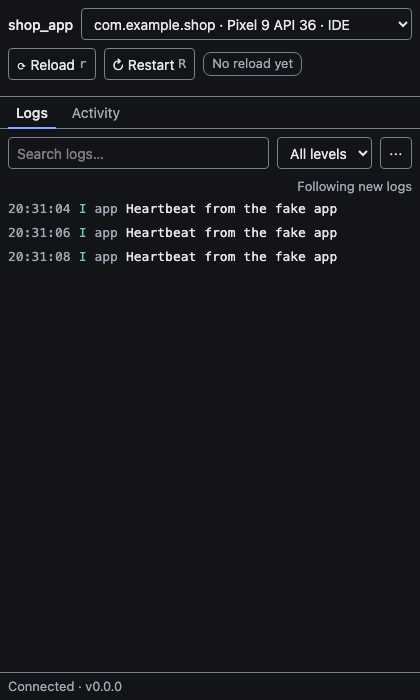
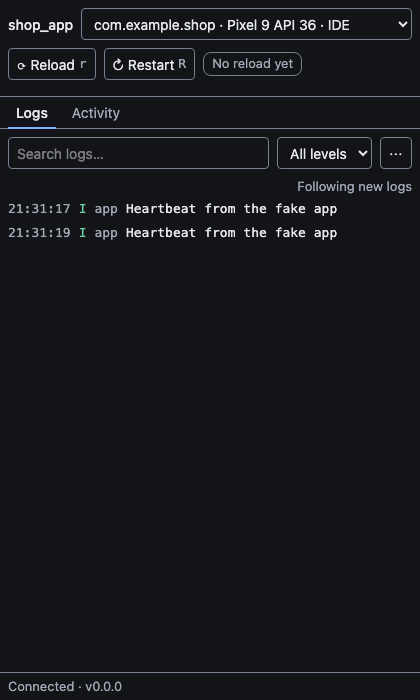
docs(qa): rerun the m2 batch 2 checks after review fixes

Changed region(s): [[0.031, 0.27, 0.4643, 0.39], [0.5881, 0.36, 0.8048, 0.39], [0.4952, 0.36, 0.5571, 0.39]]

diff --git a/docs/qa/M2.md b/docs/qa/M2.md
@@ -296,3 +296,51 @@ These steps cover only what needs Claude Desktop on your machine. Everything els
    ```
 
 QA ran steps 1–2 in a clean shell (`env -i`, daemon on 9147, `GET /` with the browser's headers set the cookie) and step 3–4 with the Browser pane tool (all pass except `Shift+R`, which the tool can't send). Steps 4 (real keyboard) and 5 need you.
+
+### Batch 2 rerun after review fixes (2026-10-14)
+
+Date: 2026-10-14 — QA. Environment: as above (macOS 27.0.1, Node 22.12.0, Playwright 1.64.0 / Chromium 156.0.8078.4, Flutter 3.44.6, Dart 3.12.2, Dart MCP server 0.1.4, Pixel 9 Pro emulator API 36 booted by the script). Commit **`a00b652`** (branch tip, clean tree before the QA files), after `pnpm install --frozen-lockfile && pnpm build`. Same scripts as above, with new checks for the fixes. Scratch `HOME` and `USERPROFILE` for every daemon; `~/.flutterdeck` does not exist after the runs. The screenshots above were taken again at `a00b652` and replace the earlier ones; four are new.
+
+**1. Build and suites**
+
+| Step                  | Result | Evidence                                                                                                                                                                                                                                                                                                                                                                              |
+| --------------------- | ------ | ------------------------------------------------------------------------------------------------------------------------------------------------------------------------------------------------------------------------------------------------------------------------------------------------------------------------------------------------------------------------------------- |
+| install, build        | PASS   | `qa-artifacts/M2/batch2/rerun-step1.txt`                                                                                                                                                                                                                                                                                                                                              |
+| check                 | PASS   | vitest 76 files, 1127 tests passed                                                                                                                                                                                                                                                                                                                                                    |
+| test:e2e              | PASS   | 31 passed (16.6 s and 16.7 s, two runs in a row with no other test run on the machine)                                                                                                                                                                                                                                                                                                |
+| test:e2e (flaky runs) | NOTE   | The first 4 runs had 1–3 failures each, in different tests each time, all `ENOENT` on trace files under `qa-artifacts/m2-dashboard/test-results/.playwright-artifacts-*` at `browserContext.close`. No assertion failed. This fits another Playwright run (for example the reviewer's) sharing the same `outputDir` and clearing it. See finding B2-4. Output: `rerun-e2e-flaky.txt`. |
+
+**2. Fake mode: 29/29 PASS** (`node qa-artifacts/M2/batch2/qa-batch2.mjs .`, output `rerun-run2.txt`). Rows 2.1–2.25 ran again and pass with the same evidence as above, except these:
+
+| #    | Criterion                                              | Result | Evidence (masked)                                                                                                                                                                                                                                                                                              |
+| ---- | ------------------------------------------------------ | ------ | -------------------------------------------------------------------------------------------------------------------------------------------------------------------------------------------------------------------------------------------------------------------------------------------------------------- |
+| 2.13 | `(a\|a)*b` stopped; long lines collapse (B2-3)         | PASS   | "That search took too long and was stopped." after 798 ms (now includes the 100 ms debounce); 5/5 frames within 500 ms; "tap" → "Showing 1 of 22"; the 4,000-character line collapses to 4 rows with "Show more". screens/b2-reload-failed-420.png                                                             |
+| 2.24 | Login needed page (B2-2), 420 px and 320 px light/dark | PASS   | 126 s after start, same copy; 0 cookies; styled: `system-ui`, centred; 320 px light bg `rgb(255,255,255)`, dark bg `rgb(18,20,24)`, overflow 0; axe 0 serious/critical in both; 0 CSP violations. screens/b2-login-needed-420.png, screens/b2-login-needed-320-light.png, screens/b2-login-needed-320-dark.png |
+| 2.26 | Caps Lock: key `R` without Shift does not restart      | PASS   | Sent with CDP `Input.dispatchKeyEvent`: key `R`, no modifiers → 0 POSTs; key `r` with Shift (Caps Lock + Shift, or the Browser pane's key tool) → 0 POSTs; key `R` with Shift → `POST /api/restart`                                                                                                            |
+
+**3. Live app: 6/6 PASS** (`scripts/qa/android-sample-app.sh up` in 68 s, `node qa-artifacts/M2/batch2/qa-live.mjs .`, then `down`; output `rerun-live1.txt`).
+
+| #   | Criterion                                                  | Result | Evidence (masked)                                                                                                                                                                                                                                                                                         |
+| --- | ---------------------------------------------------------- | ------ | --------------------------------------------------------------------------------------------------------------------------------------------------------------------------------------------------------------------------------------------------------------------------------------------------------- |
+| 3.1 | App label (B2-1)                                           | PASS   | `/api/status` app `{"name":"qa_sample_app","device":{"id":"unknown","name":"sdk gphone64 arm64"},"startedBy":"unknown"}`; picker "qa_sample_app · sdk gphone64 arm64" (how-started left out). At 420 px it shows "qa_sample_app · sdk gphone64 arm…", full text in `title`. screens/b2-live-label-420.png |
+| 3.2 | Dart logs stream                                           | PASS   | "flutter: qa-sample print tick N", "qa-sample developer.log tick N"                                                                                                                                                                                                                                       |
+| 3.3 | Android native logs stream                                 | PASS   | "native tick N", source `native`. screens/b2-live-attached-logs-420.png                                                                                                                                                                                                                                   |
+| 3.4 | Reload button                                              | PASS   | "Reloaded in 229 ms". screens/b2-live-reload-ok-420.png                                                                                                                                                                                                                                                   |
+| 3.6 | "Since last reload" with lines stamped by the device clock | PASS   | device clock −1 s from the host (`adb shell date +%s`); last tick before the reload 110; with the filter on: "Showing 10 of 350", Dart ticks 111–114 and 2 native rows, none from before the reload. screens/b2-live-since-reload-420.png                                                                 |
+| 3.5 | Reload by the Dart MCP server shows as external            | PASS   | `hot_reload` → "Hot reload succeeded."; header chip and Activity "Reloaded (from Claude or the IDE)". screens/b2-live-external-reload-420.png, screens/b2-live-activity-external-420.png                                                                                                                  |
+
+Cleanup: `down` stopped `flutter run` and the emulator it booted and removed the scratch app; `adb devices` is empty. Every daemon, Chromium and the `dart mcp-server` child the script started are stopped; scratch folders deleted.
+
+Accessibility: pass (keyboard, 320 px, 200% zoom, axe, reduced motion all re-run; the Login needed page is now centred and themed). Privacy: pass (2.25 re-run: one HttpOnly SameSite=Strict cookie, empty web storage, loopback requests only).
+
+Findings:
+
+- B2-1, B2-2, B2-3: fixed (rows 3.1, 2.24, 2.13).
+- **B2-4 (test tooling, for the tester/developer).** The e2e suite writes to a fixed `outputDir` (`qa-artifacts/m2-dashboard/test-results`). Two runs in the same worktree at the same time break each other with `ENOENT` on trace files. Suggestion: an output folder per run, or don't run in parallel in one worktree.
+
+Not observed (rerun):
+
+- A larger device clock skew: the emulator's Play image has no root (`su: inaccessible or not found`), so its clock can't be set. The skew was −1 s.
+- The Browser pane pre-check was not repeated. PM steps are unchanged; with the Caps Lock fix, the pane's key tool (Shift + key `r`) now does nothing, which is expected.
+
+Videos (git-ignored, `qa-artifacts/M2/batch2/videos-rerun/`): the same 16 flow names as above (`01-attach-reload-restart.webm` … `12-live-app.webm`).
